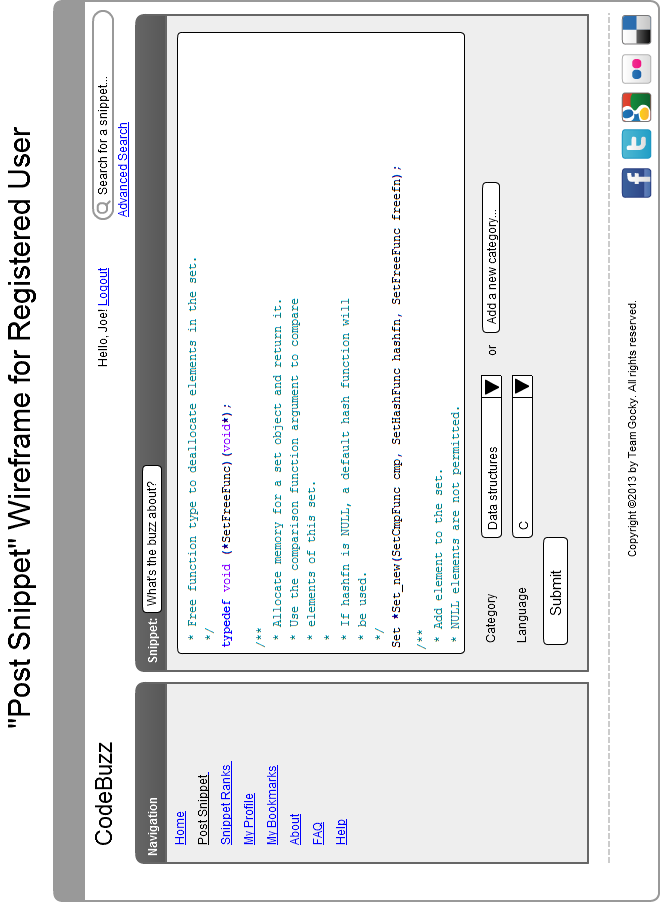
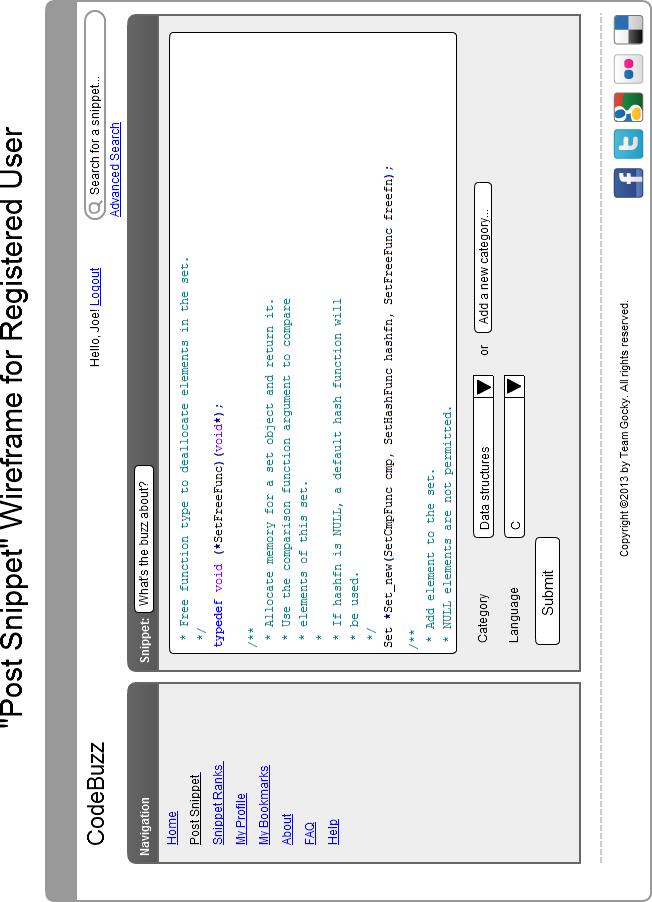
Many changes to wireframe images
homepage rotated. other images trimmed to fit better. SampleCADT
alpha'ed for use in other areas

diff --git a/docs/ideas.tex b/docs/ideas.tex
@@ -76,11 +76,9 @@ favourite/bookmarked code snippets.
 
 \section{Application Design Ideas}
 
-\subsection{Homepage Wireframe}
+\includegraphics[width=\textwidth]{../imgs/homepageWireFrameGRHorz.png}
 
-\includegraphics[width=\textwidth]{../imgs/homepageWireFrameGR.png}
-
-\includegraphics{../imgs/CCodeSnippetHorz.png}
+\includegraphics[width=\textwidth]{../imgs/CCodeSnippetHorz.png}
 
 \newpage
 
